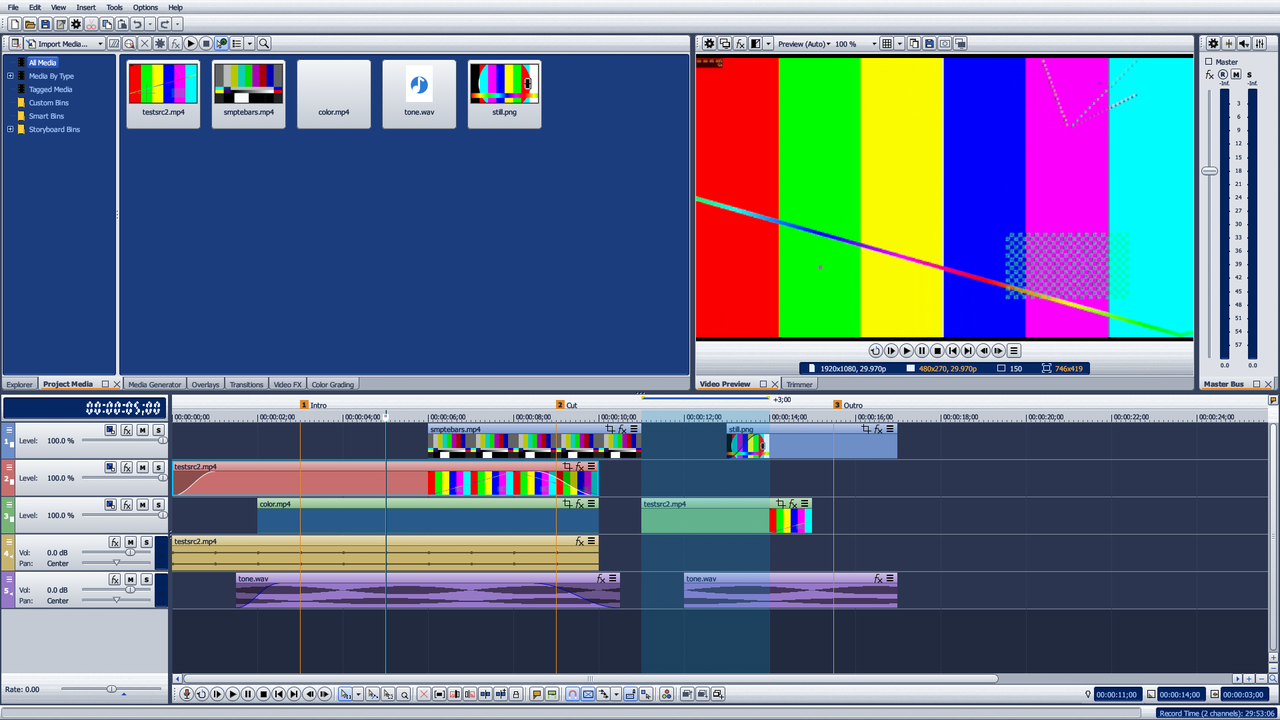
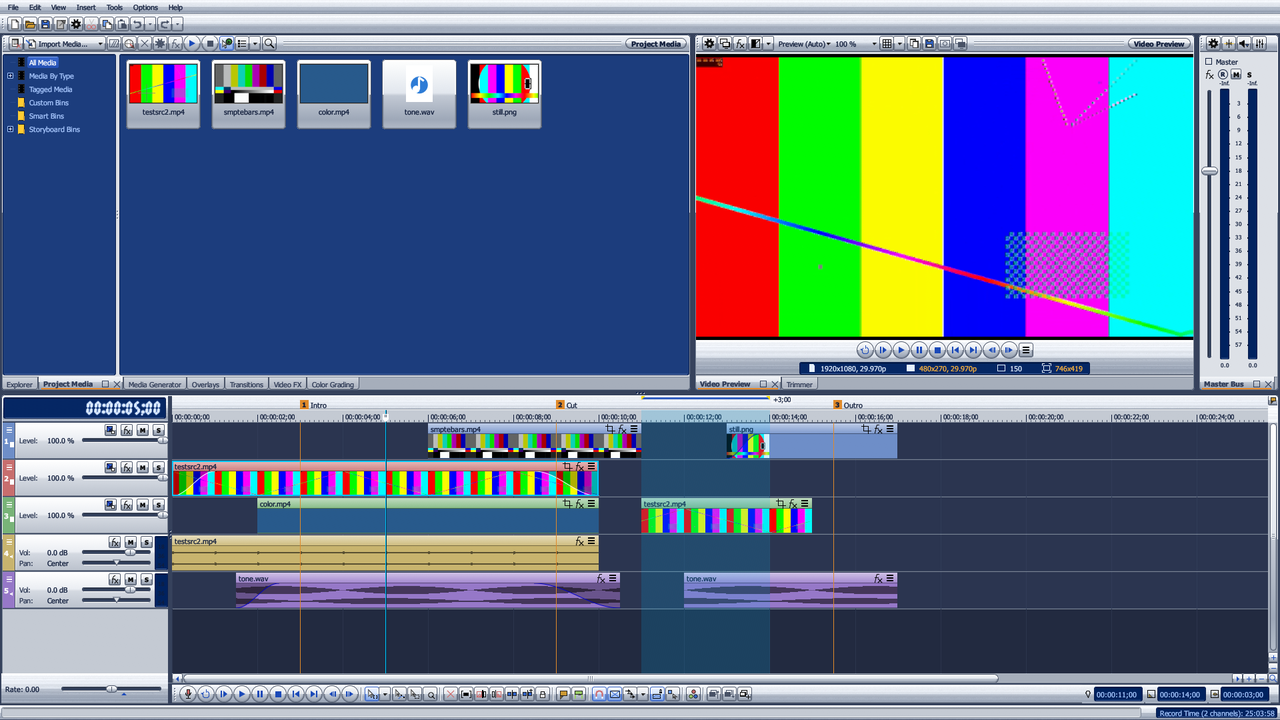
UI: larger small LCD digits; README screenshot of the glossy pass
The Trimmer's In / Out / Length digits are 14 px and the keyframe
controller's 13 px (at 11-12 px the segments crowded); the spec says where
digits stop and Tahoma takes over. The README screenshot is re-taken from
the harness.

diff --git a/src/ui/keyframes.rs b/src/ui/keyframes.rs
@@ -246,7 +246,7 @@ pub fn controller(ui: &mut Ui, rect: Rect, st: &mut KfState, name: &str, keys: &
     }
     let tc = Rect::from_min_max(pos2(row.max.x - 96.0, row.min.y + 3.0), pos2(row.max.x - 4.0, row.max.y - 3.0));
     super::widgets::lcd_well(&p, tc, true, true);
-    super::widgets::lcd_value(&p, tc.center(), Align2::CENTER_CENTER, &format_timecode(at.max(0.0), fps), 11.0);
+    super::widgets::lcd_value(&p, tc.center(), Align2::CENTER_CENTER, &format_timecode(at.max(0.0), fps), 13.0);
 
     // ---- Painting ----
     let p = p.with_clip_rect(body.shrink(2.0).intersect(p.clip_rect()));

diff --git a/src/ui/trimmer.rs b/src/ui/trimmer.rs
@@ -294,7 +294,7 @@ pub fn draw_trimmer(ui: &mut Ui, tr: &mut Trimmer, project: &mut Project, histor
     for (k, (icon, v)) in items.into_iter().enumerate() {
         let x = x0 + k as f32 * 130.0;
         paint_icon(&p, Rect::from_min_size(pos2(x, y - 7.0), vec2(14.0, 14.0)), icon, Some(ink));
-        super::widgets::lcd_value(&p, pos2(x + 20.0, y), Align2::LEFT_CENTER, &format_timecode(v, fps), 12.0);
+        super::widgets::lcd_value(&p, pos2(x + 20.0, y), Align2::LEFT_CENTER, &format_timecode(v, fps), 14.0);
     }
 }
 

diff --git a/docs/UI_SPEC.md b/docs/UI_SPEC.md
@@ -161,9 +161,10 @@ streak texture's darkest pixel) by `theme::tests::contrast_aa`:
 * **LCD digits** (`widgets::lcd_digits`): time and frame read-outs are painted as seven-segment digits, slanted 8 %:
   solid anti-aliased hexagon segments 19 % of the height thick, bevelled (an `lcd.text` edge round an `lcd.digits`
   core), a soft `lcd.text` glow round each lit segment, round separator dots, and the unlit segments in `lcd.ghost`
-  (as a real LCD shows them). Heights: 22 px in the timeline's time display,
-  15 px in the Trimmer and the Video Preview, 11 px in small read-outs (where Tahoma Bold in `lcd.digits` is used
-  instead when a value holds letters). Characters other than `0-9 : ; . , - +` fall back to Tahoma Bold.
+  (as a real LCD shows them). Heights: up to 22 px in the timeline's time display (13 px under the breadcrumb),
+  14 px in the Trimmer, 13 px in the keyframe controller; below 13 px the segments crowd, so smaller read-outs, and
+  values that hold letters (the Video Preview's sizes and rates, the transport boxes), are Tahoma on the LCD.
+  Characters other than `0-9 : ; . , -` fall back to Tahoma Bold.
 * Text sits on whole pixels (egui rounds galley origins); 1 px strokes are drawn on pixel centres.
 
 ---
